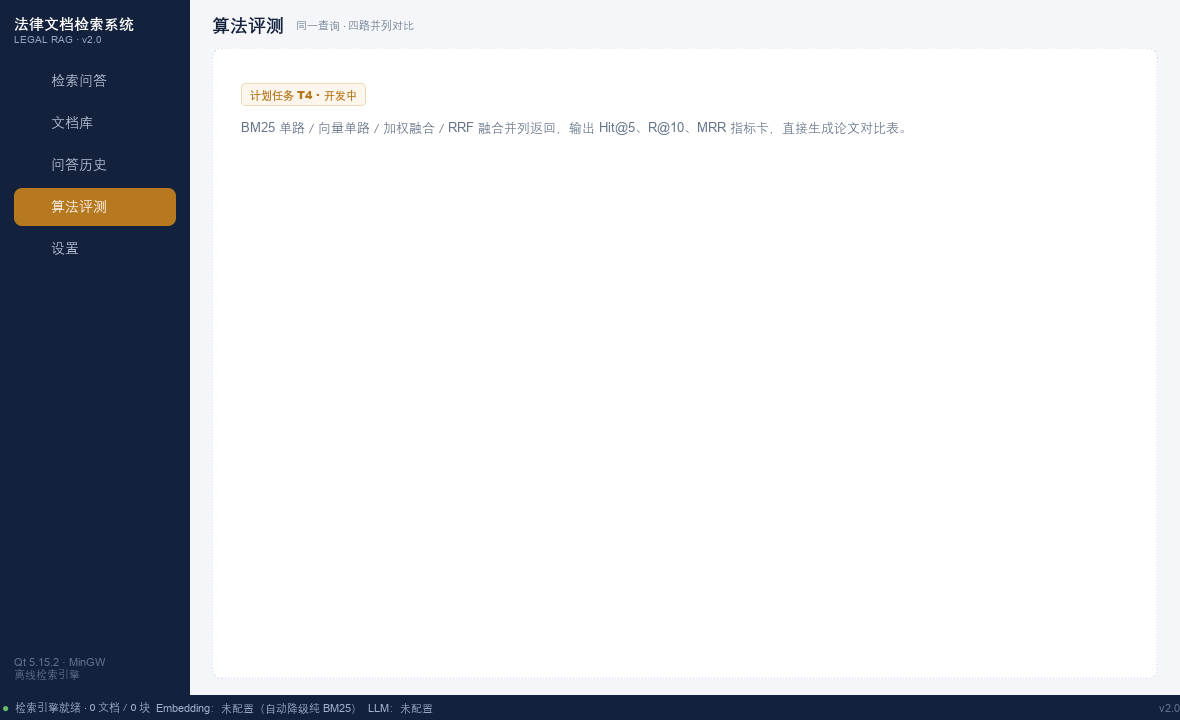
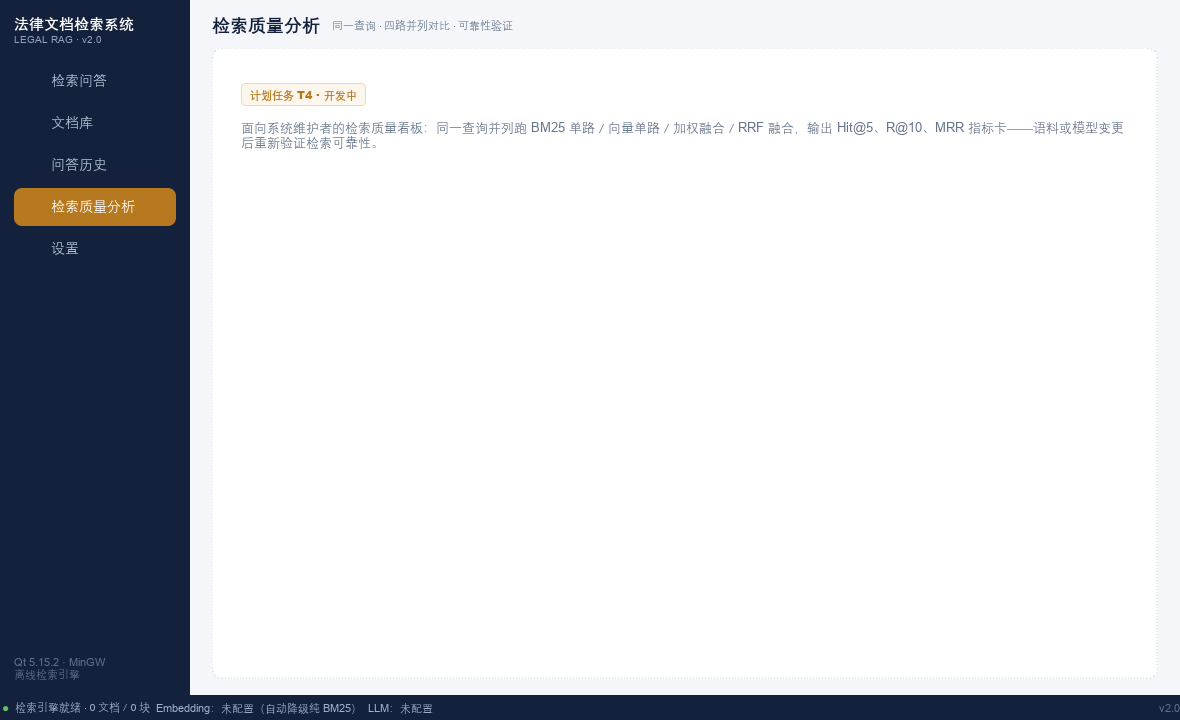
feat(ui): M4 页面更名「检索质量分析」并更新叙事
- 导航标签与占位页标题按 2026-09-20 定稿更名，emoji ⚖→📈
- 占位页描述改为面向维护者的可靠性验证叙事（语料/模型变更后重新验证）
- README 五页导航两处同步；管理文档此前已定稿

Changed region(s): [[0.2136, 0.1528, 0.9458, 0.2139], [0.1831, 0.0, 0.4271, 0.0611], [0.0305, 0.275, 0.122, 0.3056]]

diff --git a/src/ui/main_window.cpp b/src/ui/main_window.cpp
@@ -80,11 +80,12 @@ void MainWindow::buildPages() {
         pageStack_));
 
     pageStack_->addWidget(new PlaceholderPage(
-        QStringLiteral("算法评测"),
-        QStringLiteral("同一查询 · 四路并列对比"),
+        QStringLiteral("检索质量分析"),
+        QStringLiteral("同一查询 · 四路并列对比 · 可靠性验证"),
         QStringLiteral("T4"),
-        QStringLiteral("BM25 单路 / 向量单路 / 加权融合 / RRF 融合并列返回，"
-                       "输出 Hit@5、R@10、MRR 指标卡，直接生成论文对比表。"),
+        QStringLiteral("面向系统维护者的检索质量看板：同一查询并列跑 "
+                       "BM25 单路 / 向量单路 / 加权融合 / RRF 融合，"
+                       "输出 Hit@5、R@10、MRR 指标卡——语料或模型变更后重新验证检索可靠性。"),
         pageStack_));
 
     pageStack_->addWidget(new PlaceholderPage(

diff --git a/src/ui/navigation_bar.cpp b/src/ui/navigation_bar.cpp
@@ -16,7 +16,7 @@ const NavItem kNavItems[] = {
     { QStringLiteral("🔍"), QStringLiteral("检索问答") },
     { QStringLiteral("📚"), QStringLiteral("文档库") },
     { QStringLiteral("🕘"), QStringLiteral("问答历史") },
-    { QStringLiteral("⚖"), QStringLiteral("算法评测") },
+    { QStringLiteral("📈"), QStringLiteral("检索质量分析") },
     { QStringLiteral("⚙"), QStringLiteral("设置") },
 };
 

diff --git a/include/ui/placeholder_page.h b/include/ui/placeholder_page.h
@@ -5,7 +5,7 @@ class QLabel;
 
 /// 通用占位页：页标题 + 副标题 + 一张虚线卡片写明该模块的开发阶段。
 ///
-/// T0 阶段「文档库 / 问答历史 / 算法评测 / 设置」四页先由此占位，
+/// T0 阶段「文档库 / 问答历史 / 检索质量分析 / 设置」四页先由此占位，
 /// 后续 T1–T4 逐个替换为真实实现。
 class PlaceholderPage : public QFrame {
     Q_OBJECT

diff --git a/include/ui/navigation_bar.h b/include/ui/navigation_bar.h
@@ -5,7 +5,7 @@ class QListWidget;
 
 /// 左侧固定导航栏：藏青底 + 铜金选中项。
 ///
-/// 五个页面容器的入口（检索问答 / 文档库 / 问答历史 / 算法评测 / 设置）。
+/// 五个页面容器的入口（检索问答 / 文档库 / 问答历史 / 检索质量分析 / 设置）。
 class NavigationBar : public QFrame {
     Q_OBJECT
 

diff --git a/README.md b/README.md
@@ -12,7 +12,7 @@
 - 📋 **法律 Prompt 模板** — 自动检测法律上下文，切换结构化四段式法律问答格式（案件概述 → 法律分析 → 结论 → 参考来源）
 - 🤖 **流式 AI 回答** — 基于 DeepSeek Chat API 的 SSE 流式生成，实时逐字展示
 - 🇨🇳 **中文分词** — 集成 cppjieba + 法律自定义词典，精准的中文分词和关键词提取
-- 🎨 **现代桌面 UI** — 藏青 + 铜金主题，五页导航架构（检索问答 / 文档库 / 问答历史 / 算法评测 / 设置），左右分栏（检索结果 + AI 回答），支持 API Key 界面配置
+- 🎨 **现代桌面 UI** — 藏青 + 铜金主题，五页导航架构（检索问答 / 文档库 / 问答历史 / 检索质量分析 / 设置），左右分栏（检索结果 + AI 回答），支持 API Key 界面配置
 - 🧪 **完整测试** — 45 个单元测试 + 端到端测试，21 篇模拟裁判文书 Demo 数据集
 
 ## 技术架构
@@ -339,7 +339,7 @@ MainWindow
     ├── [0] SearchPage     # 已实现：导入 / 混合检索 / 三维筛选 / SSE 流式回答
     ├── [1] 文档库          # 占位 → T1 持久化 + 文档生命周期管理
     ├── [2] 问答历史        # 占位 → T2 Qt SQLite 落库
-    ├── [3] 算法评测        # 占位 → T4 四路并列对比
+    ├── [3] 检索质量分析    # 占位 → T4 四路并列对比 + 可靠性验证
     └── [4] 设置            # 占位 → T3 检索参数配置中心
 QStatusBar                 # 索引规模 / Embedding 与 LLM 可用性 / 版本号
 ```
